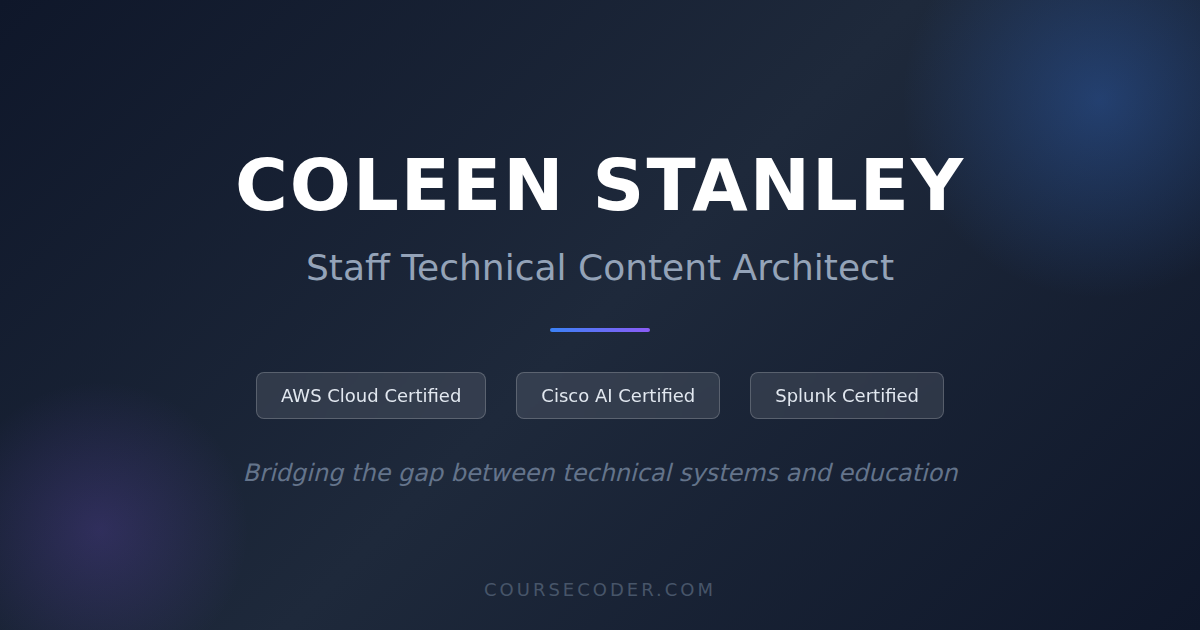
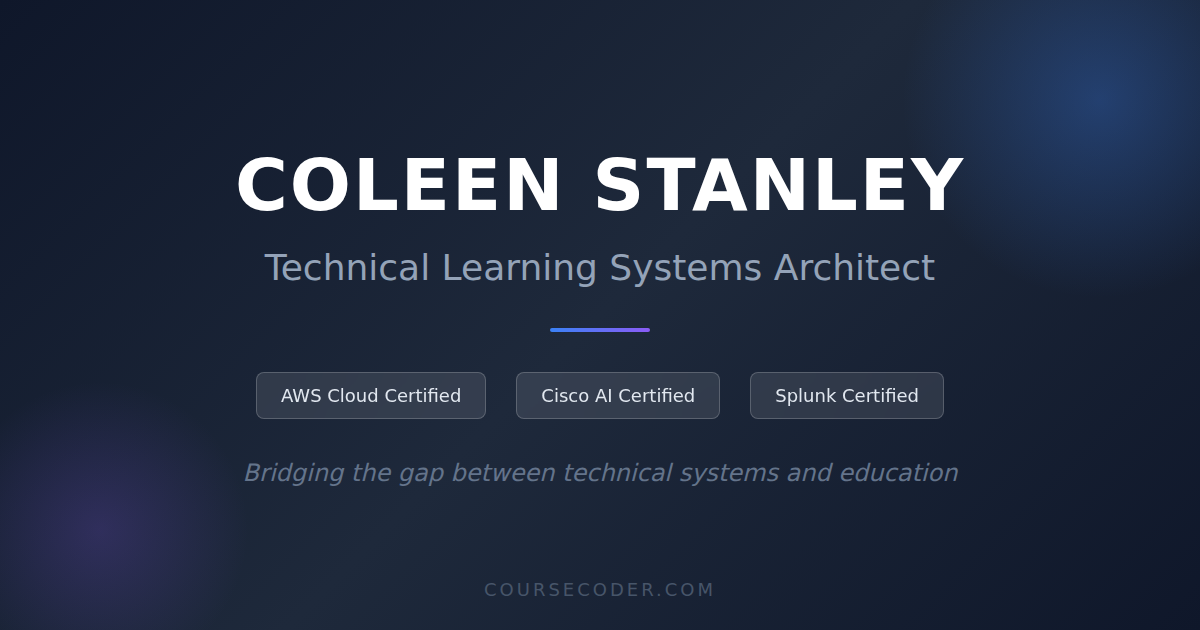
Update  social preview image

Changed region(s): [[0.2158, 0.3921, 0.7708, 0.4524]]

diff --git a/index.html b/index.html
@@ -3,24 +3,25 @@
   <head>
     <meta charset="UTF-8" />
     <meta name="viewport" content="width=device-width, initial-scale=1.0" />
-    <title>Coleen Stanley Portfolio</title>
+    <title>Coleen Stanley | Technical Learning Systems Architect</title>
     <link rel="icon" href="/favicon.png" type="image/png">
 
     <!-- Description -->
-    <meta name="description" content="Coleen Stanley's portfolio — a showcase of projects, skills, and experience." />
+    <meta name="description" content="AWS | Cisco AI | Splunk Certified. Bridging the gap between technical systems and education." />
 
     <!-- Open Graph -->
     <meta property="og:type" content="website" />
-    <meta property="og:title" content="Coleen Stanley Portfolio" />
-    <meta property="og:description" content="Coleen Stanley's portfolio — a showcase of projects, skills, and experience." />
-    <meta property="og:url" content="https://coursecoder.github.io/" />
-    <meta property="og:image" content="https://coursecoder.github.io/favicon.png" />
+    <meta property="og:title" content="Coleen Stanley | Technical Learning Systems Architect" />
+    <meta property="og:description" content="AWS | Cisco AI | Splunk Certified. Bridging the gap between technical systems and education." />
+    <meta property="og:url" content="https://coursecoder.com" />
+    <meta property="og:type" content="website" />
+    <meta property="og:image" content="https://coursecoder.com/og-image.png" />
 
     <!-- Twitter Card -->
     <meta name="twitter:card" content="summary_large_image" />
-    <meta name="twitter:title" content="Coleen Stanley Portfolio" />
-    <meta name="twitter:description" content="Coleen Stanley's portfolio — a showcase of projects, skills, and experience." />
-    <meta name="twitter:image" content="https://coursecoder.github.io/favicon.png" />
+    <meta name="twitter:title" content="Coleen Stanley | Technical Learning Systems Architect" />
+    <meta name="twitter:description" content="AWS | Cisco AI | Splunk Certified. Bridging the gap between technical systems and education." />
+    <meta name="twitter:image" content="https://coursecoder.com/og-image.png" />
 
     <!-- Structured Data -->
     <script type="application/ld+json">
@@ -28,7 +29,7 @@
       "@context": "https://schema.org",
       "@type": "Person",
       "name": "Coleen Stanley",
-      "url": "https://coursecoder.github.io/",
+      "url": "https://coursecoder.com",
       "sameAs": [
         "https://github.com/coursecoder"
       ]
